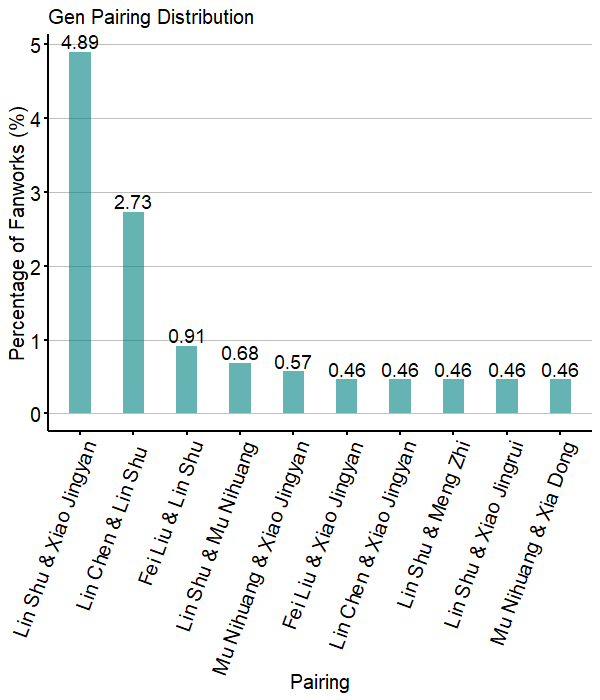
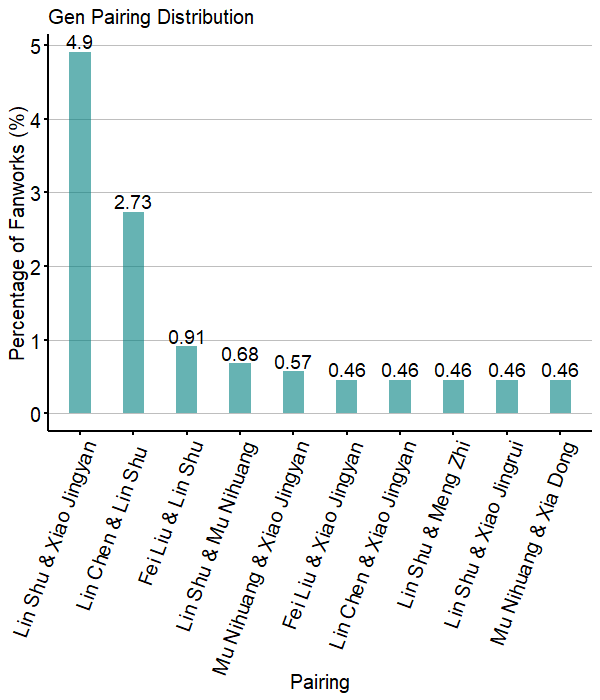
update

diff --git a/_other/nirvana-in-fire-stats.md b/_other/nirvana-in-fire-stats.md
@@ -9,48 +9,48 @@ permalink: /other/nirvana-in-fire-stats
 <a href ="https://archiveofourown.org/tags/%E7%90%85%E7%90%8A%E6%A6%9C%20%7C%20Nirvana%20in%20Fire%20(TV)/works/">琅琊榜 | Nirvana in Fire (TV)</a> data were scraped from [Archive of Our Own](https://archiveofourown.org), filtered by language = English, on <strong>8 June 2020</strong>. Only unlocked works were available for scraping.
 
 # General Stats
-<strong>Data exclusions.</strong> N = 896 works were scraped. Exclusion criteria were as follows: 1) N = 11 works were Chinese works mislabelled as English, 2) N = 3 works were large, multi-fandom drabble collections and 3) N = 3 were unrelated works. In total, N = 17 works were excluded, leaving N = 879 for analysis.
+<strong>Data exclusions.</strong> N = 896 works were scraped. Exclusion criteria were as follows: 1) N = 12 works were Chinese works mislabelled as English, 2) N = 3 works were large, multi-fandom drabble collections and 3) N = 3 were unrelated works. In total, N = 17 works were excluded, leaving N = 878 for analysis.
 
 <p align="center">
-  <img src="http://seowxft.github.io/files/nifFigs/Rplot01.png" alt="Fig1"/>
+  <img src="http://seowxft.github.io/files/nifFigs/Rplot1.png" alt="Fig1"/>
 </p>
 
 <strong>Fig 1.</strong> The earliest fanwork recorded on AO3 is [Could have, Would have, Should have](https://archiveofourown.org/works/5148068) by <strong>Sychronergy</strong>, published on 5th Nov 2015. The largest number of submissions of fanwork were in December, in 2017 (N = 68), 2019 (N = 59) and 2018 (N = 54). This is likely due to NiF Exchange and Yuletide events.
 
 <br><br>
 <p align="center">
-  <img src="http://seowxft.github.io/files/nifFigs/Rplot02.png" alt="Fig2"/>
+  <img src="http://seowxft.github.io/files/nifFigs/Rplot2.png" alt="Fig2"/>
 </p>
 
 <strong>Fig 2.</strong> 2017 stands as the year with the most number of fanwork published so far.
 
 <br><br>
 <p align="center">
-  <img src="http://seowxft.github.io/files/nifFigs/Rplot03.png" alt="Fig3"/>
+  <img src="http://seowxft.github.io/files/nifFigs/Rplot3.png" alt="Fig3"/>
 </p>
 
 <strong>Fig 3.</strong> Majority of the fanworks were marked as complete (N = 791), versus those that were left as to be updated (N = 88).
 
 <br><br>
 <p align="center">
-  <img src="http://seowxft.github.io/files/nifFigs/Rplot09.png" alt="Fig4"/>
+  <img src="http://seowxft.github.io/files/nifFigs/Rplot4.png" alt="Fig4"/>
 </p>
 
-<strong>Fig 4.</strong> Majority of the fanworks were categorised as gen (N = 402). Most common pairings were male/male (N = 392).
+<strong>Fig 4.</strong> Majority of the fanworks were categorised as gen (N = 402). Most common pairings were male/male (N = 391).
 
 <br><br>
 <p align="center">
-  <img src="http://seowxft.github.io/files/nifFigs/Rplot10.png" alt="Fig5"/>
+  <img src="http://seowxft.github.io/files/nifFigs/Rplot5.png" alt="Fig5"/>
 </p>
 
 <strong>Fig 5.</strong> Majority of the fanworks were rated as gen (N = 401).
 
 <br><br>
 <p align="center">
-  <img src="http://seowxft.github.io/files/nifFigs/Rplot04.png" alt="Fig6"/>
+  <img src="http://seowxft.github.io/files/nifFigs/Rplot6.png" alt="Fig6"/>
 </p>
 
-<strong>Fig 6.</strong> Fanworks sorted by type (Podfic, Art, Video or Fic), and sorted by word count for Fic. N = 803 (91.35%) of fanworks were Fic. The longest fic is [the mist that cloaks the river, the clouds that hide the stars](https://archiveofourown.org/works/15699879) by <strong>Sovin</strong> which stands at 176,718 words. The shortest fic stands at 100 words, N = 9 fics meet this criteria.
+<strong>Fig 6.</strong> Fanworks sorted by type (Podfic, Art, Video or Fic), and sorted by word count for Fic. N = 802 (91.34%) of fanworks were Fic. The longest fic is [the mist that cloaks the river, the clouds that hide the stars](https://archiveofourown.org/works/15699879) by <strong>Sovin</strong> which stands at 176,718 words. The shortest fic stands at 100 words, N = 10 fics meet this criteria.
 
 Top 5 Longest fics:
 1.	[the mist that cloaks the river, the clouds that hide the stars](https://archiveofourown.org/works/6086905) by <strong>Sovin</strong> (Yujin centric; 176,718 words)
@@ -75,7 +75,7 @@ Top 5 most kudo-ed fanwork:
 
 <br><br>
 <p align="center">
-  <img src="http://seowxft.github.io/files/nifFigs/Rplot06.png" alt="Fig8"/>
+  <img src="http://seowxft.github.io/files/nifFigs/Rplot8.png" alt="Fig8"/>
 </p>
 
 <strong>Fig 8.</strong> The most commented fanwork is [In Time, Once Again](https://archiveofourown.org/works/6086905) by <strong>擂文</strong>, translated by <strong>katiirabbi</strong> at 983 comments.
@@ -89,7 +89,7 @@ Top 5 most commented fanwork:
 
 <br><br>
 <p align="center">
-  <img src="http://seowxft.github.io/files/nifFigs/Rplot07.png" alt="Fig9"/>
+  <img src="http://seowxft.github.io/files/nifFigs/Rplot9.png" alt="Fig9"/>
 </p>
 
 <strong>Fig 9.</strong> The most bookmarked fanwork is [In Time, Once Again](https://archiveofourown.org/works/6086905) by <strong>擂文</strong>, translated by <strong>katiirabbi</strong> at 336 bookmarks.
@@ -103,7 +103,7 @@ Top 4 most bookmarked fanworks are similar to the Top 4 most kudo-ed list, there
 
 <br><br>
 <p align="center">
-  <img src="http://seowxft.github.io/files/nifFigs/Rplot08.png" alt="Fig10"/>
+  <img src="http://seowxft.github.io/files/nifFigs/Rplot10.png" alt="Fig10"/>
 </p>
 
 <strong>Fig 10.</strong> The most hits fanwork is [In Time, Once Again](https://archiveofourown.org/works/6086905) by <strong>擂文</strong>, translated by <strong>katiirabbi</strong> at 32,656 hits.
@@ -144,6 +144,15 @@ Top 4 most hits fanworks are similar to the Top 4 most kudo-ed list, therefore, 
 <strong>Fig 14.</strong> The most popular tag is ‘Angst’ (N = 89).
 
 <br><br>
+# Author Rankings
+Top 5 most prolific authors:
+1. [orangememory](https://archiveofourown.org/users/orangememory) (N = 48)
+2. [aozu](https://archiveofourown.org/users/aozu) (N = 44)
+3. [ConvenientAlias](https://archiveofourown.org/users/ConvenientAlias) (N = 39)
+4. [ancient_moonshine](https://archiveofourown.org/users/ancient_moonshine) (N = 33)
+5. [nanasheeeh](https://archiveofourown.org/users/nanasheeeh) (N = 33)
+<br><br>
+
 # Word Cloud
 <strong>Data exclusions.</strong> N = 896 works were scraped. Exclusion criteria were as follows: 1) N = 11 works were Chinese works mislabelled as English, 2) N = 3 works were large, multi-fandom drabble collections and 3) N = 3 were unrelated works. Additionally, podfic (N = 20), fanart (N = 49) and fanvid (N = 7) were excluded as only text-based fanworks are applicable. In total, N = 93 works were excluded, leaving N = 803 for text-based analysis.
 
